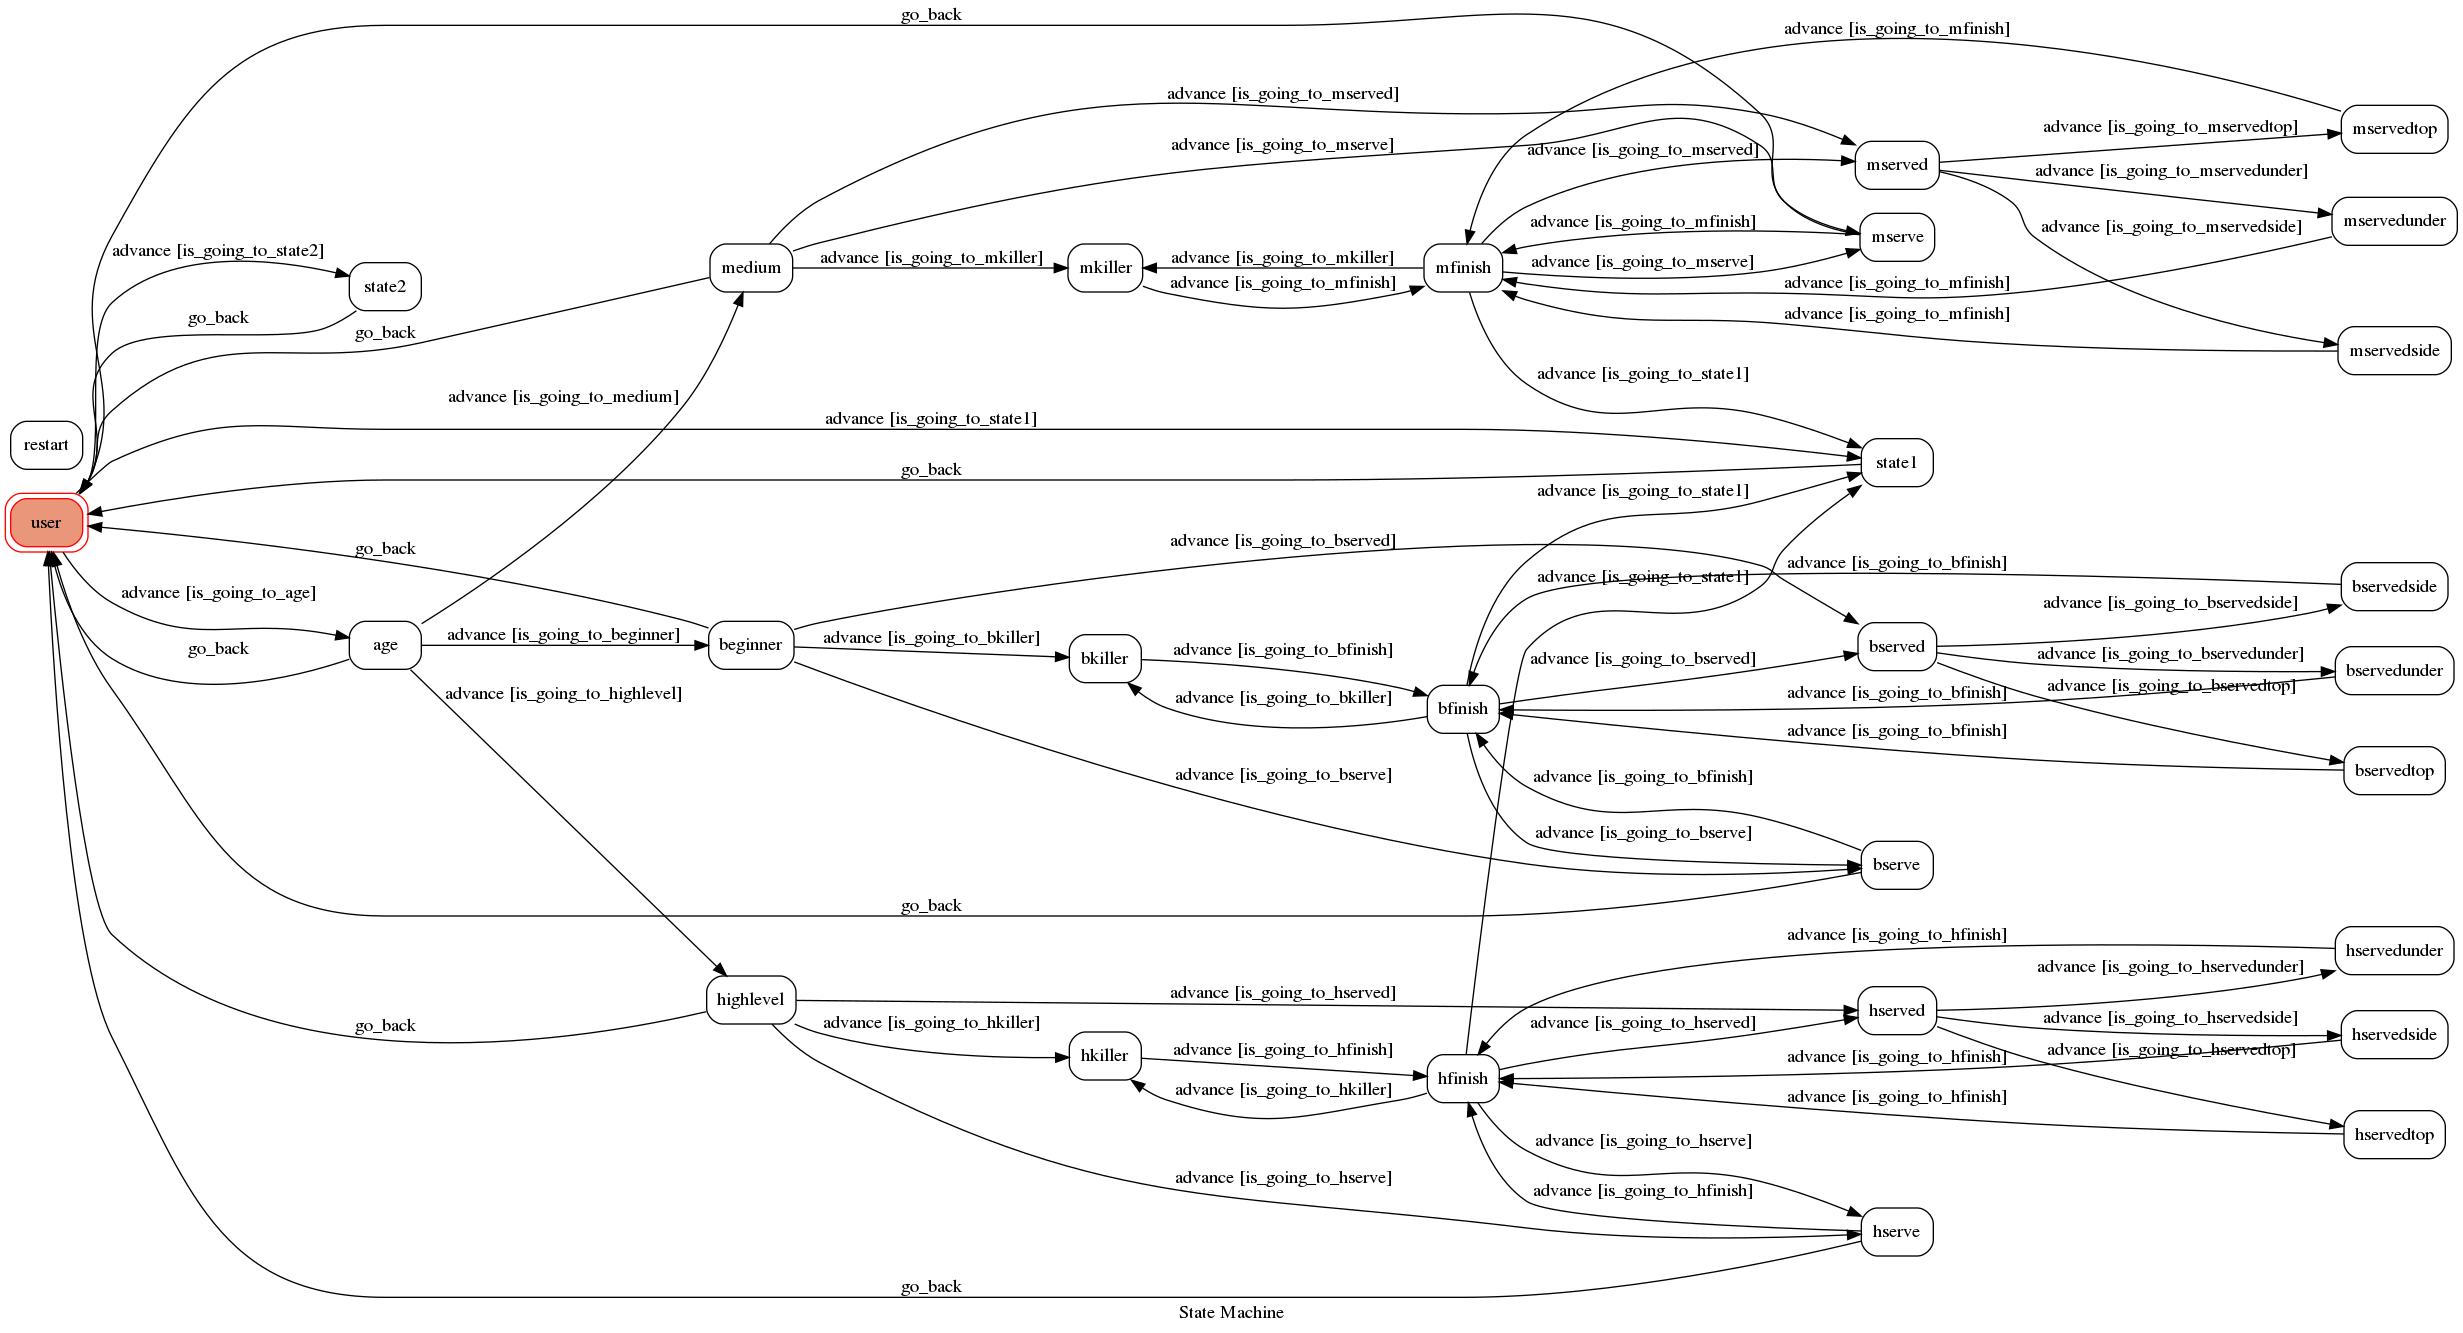
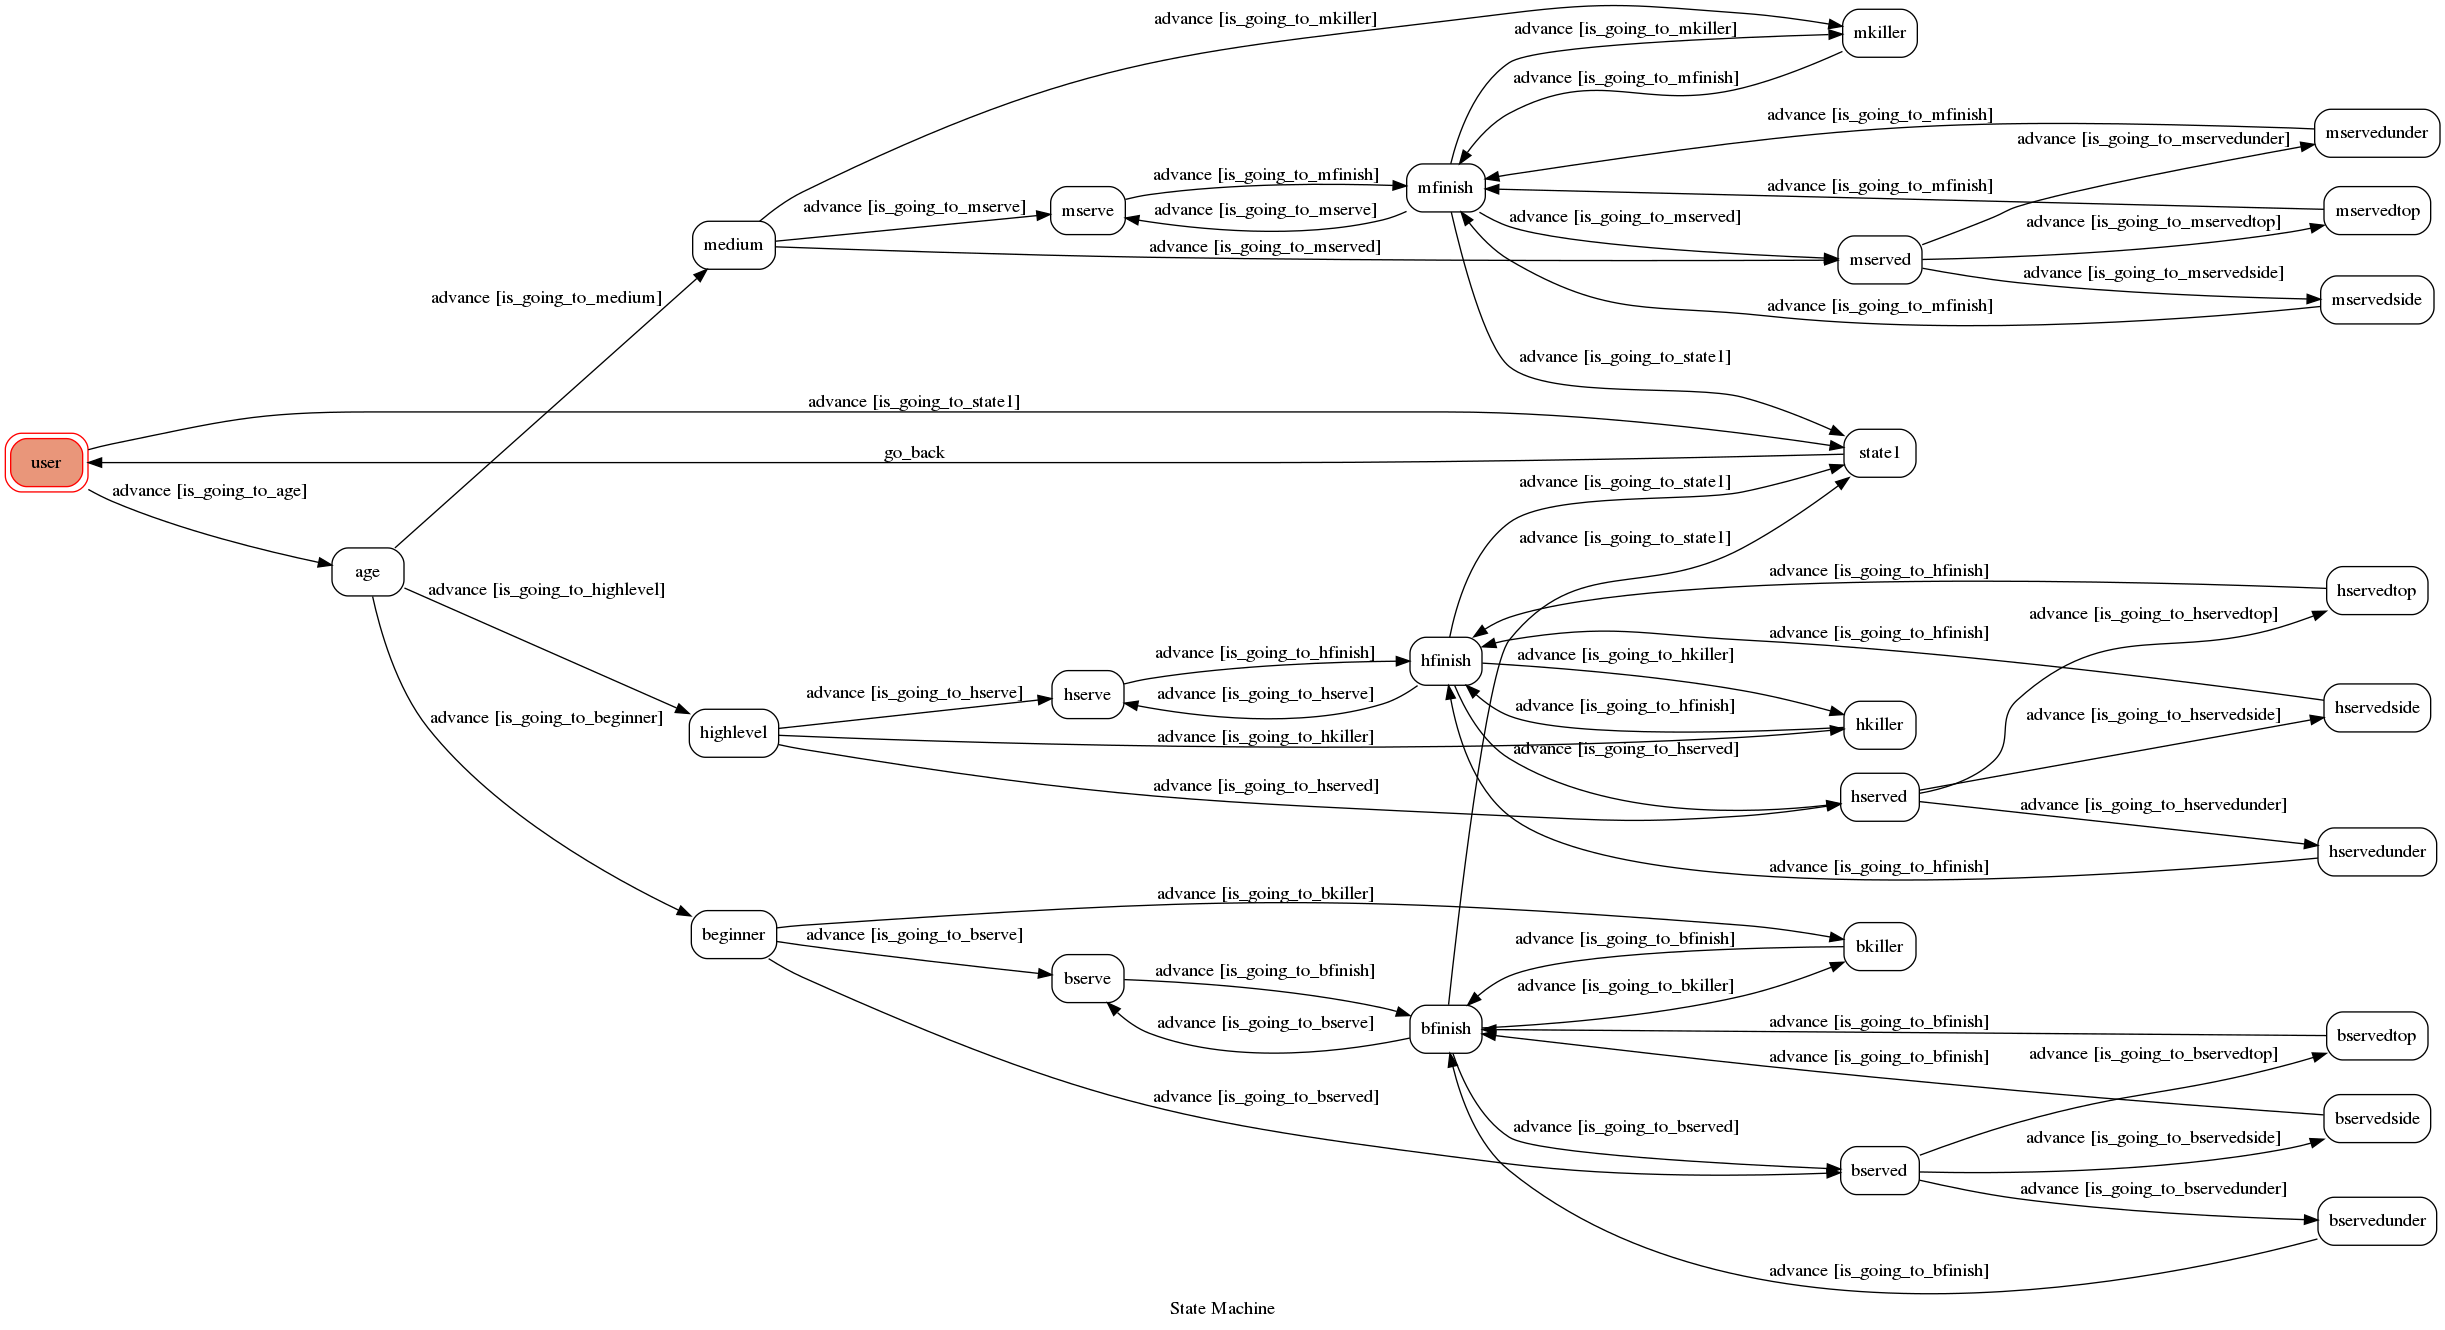
t commit

diff --git a/app.py b/app.py
@@ -9,12 +9,13 @@ from linebot.models import MessageEvent, TextMessage, TextSendMessage
 
 from fsm import TocMachine
 from utils import send_text_message
-
+from utils import send_text_message, send_button_message
+from linebot.models import ImageCarouselColumn, URITemplateAction, MessageTemplateAction
 load_dotenv()
 
 
 machine = TocMachine(
-    states=["user", "state1", "state2","restart","age","beginner","medium","highlevel","bserve","mserve","hserve","bfinish","mfinish","hfinish","bserved","hserved","mserved","bservedtop","bservedunder","bservedside","hservedtop","hservedside","hservedunder","mservedtop","mservedunder","mservedside","bkiller","mkiller","hkiller"],
+    states=["user", "state1","age","beginner","medium","highlevel","bserve","mserve","hserve","bfinish","mfinish","hfinish","bserved","hserved","mserved","bservedtop","bservedunder","bservedside","hservedtop","hservedside","hservedunder","mservedtop","mservedunder","mservedside","bkiller","mkiller","hkiller"],
     transitions=[
         {
             "trigger": "advance",
@@ -22,12 +23,12 @@ machine = TocMachine(
             "dest": "state1",
             "conditions": "is_going_to_state1",
         },
-        {
-            "trigger": "advance",
-            "source": "user",
-            "dest": "state2",
-            "conditions": "is_going_to_state2",
-        },
+       # {
+       #     "trigger": "advance",
+        #    "source": "user",
+        #    "dest": "state2",
+       #     "conditions": "is_going_to_state2",
+       # },
         {
             "trigger": "advance",
             "source": "user",
@@ -243,7 +244,7 @@ machine = TocMachine(
             "dest": "state1",
             "conditions": "is_going_to_state1",
         },
-        {"trigger": "go_back", "source": ["state1", "state2","age","beginner","medium","highlevel","bserve","mserve","hserve"], "dest": "user"},
+        {"trigger": "go_back", "source": ["state1"], "dest": "user"},
     ],
     initial="user",
     auto_transitions=False,
@@ -319,8 +320,21 @@ def webhook_handler():
         print(f"REQUEST BODY: \n{body}")
         response = machine.advance(event)
         if response == False:
+
             if machine.state == 'user':
-                send_text_message(event.reply_token, '想要進入桌球世界嗎?想要打 "想要" ')
+                text='想要進入桌球世界嗎?'
+                btn = [
+                            MessageTemplateAction(
+                                label = '想要',
+                                text ='想要'
+                            ),
+                            MessageTemplateAction(
+                                label = '離開',
+                                text = '離開'
+                            ),
+                        ]
+                send_button_message(event.reply_token,text, btn)
+                #send_text_message(event.reply_token, '想要進入桌球世界嗎?想要打 "想要" ')
             else:
                 send_text_message(event.reply_token, "Not Entering any State")
 

diff --git a/fsm.py b/fsm.py
@@ -13,6 +13,9 @@ class TocMachine(GraphMachine):
     def is_going_to_age(self, event):
         text = event.message.text
         return text.lower() == '想要'
+    #def is_going_to_state2(self, event):
+    #    text = event.message.text
+      #  return text.lower() == "go to state2"
     
         
     
@@ -20,10 +23,6 @@ class TocMachine(GraphMachine):
     def is_going_to_state1(self, event):
         text = event.message.text
         return text.lower() == "離開"
-
-    def is_going_to_state2(self, event):
-        text = event.message.text
-        return text.lower() == "go to state2"
     def is_going_to_beginner(self, event):
         text = event.message.text
         return text.lower() =='初學者'
@@ -105,14 +104,13 @@ class TocMachine(GraphMachine):
         print("I'm entering state1")
 
         reply_token = event.reply_token
-        send_text_message(reply_token, "您已經離開囉如果要繼續請輸入任意文字")
+        send_text_message(reply_token, "您已經離開囉!!如果要繼續請輸入任意文字")
         self.go_back(event)
-    def on_enter_state2(self, event):
-        print("I'm entering state2")
+    #def on_enter_state2(self, event):
+     #   print("I'm entering state2")
 
-        reply_token = event.reply_token
-        send_text_message(reply_token, "Trigger state2")
-        self.go_back()
+      #  send_button_message(event.reply_token,text, btn)
+
 
     def on_enter_age(self, event):
         print("I'm entering age")
@@ -376,8 +374,8 @@ class TocMachine(GraphMachine):
         print("Leaving state1")
     def on_exit_state2(self,event):
         print("Leaving state2")
-    def on_exit_restart(self,event):
-        print("Leaving restart")
+   # def on_exit_restart(self,event):
+       # print("Leaving restart")
     def on_exit_age(self,event):
         print("Leaving age")
     def on_exit_beginner(self,event):
